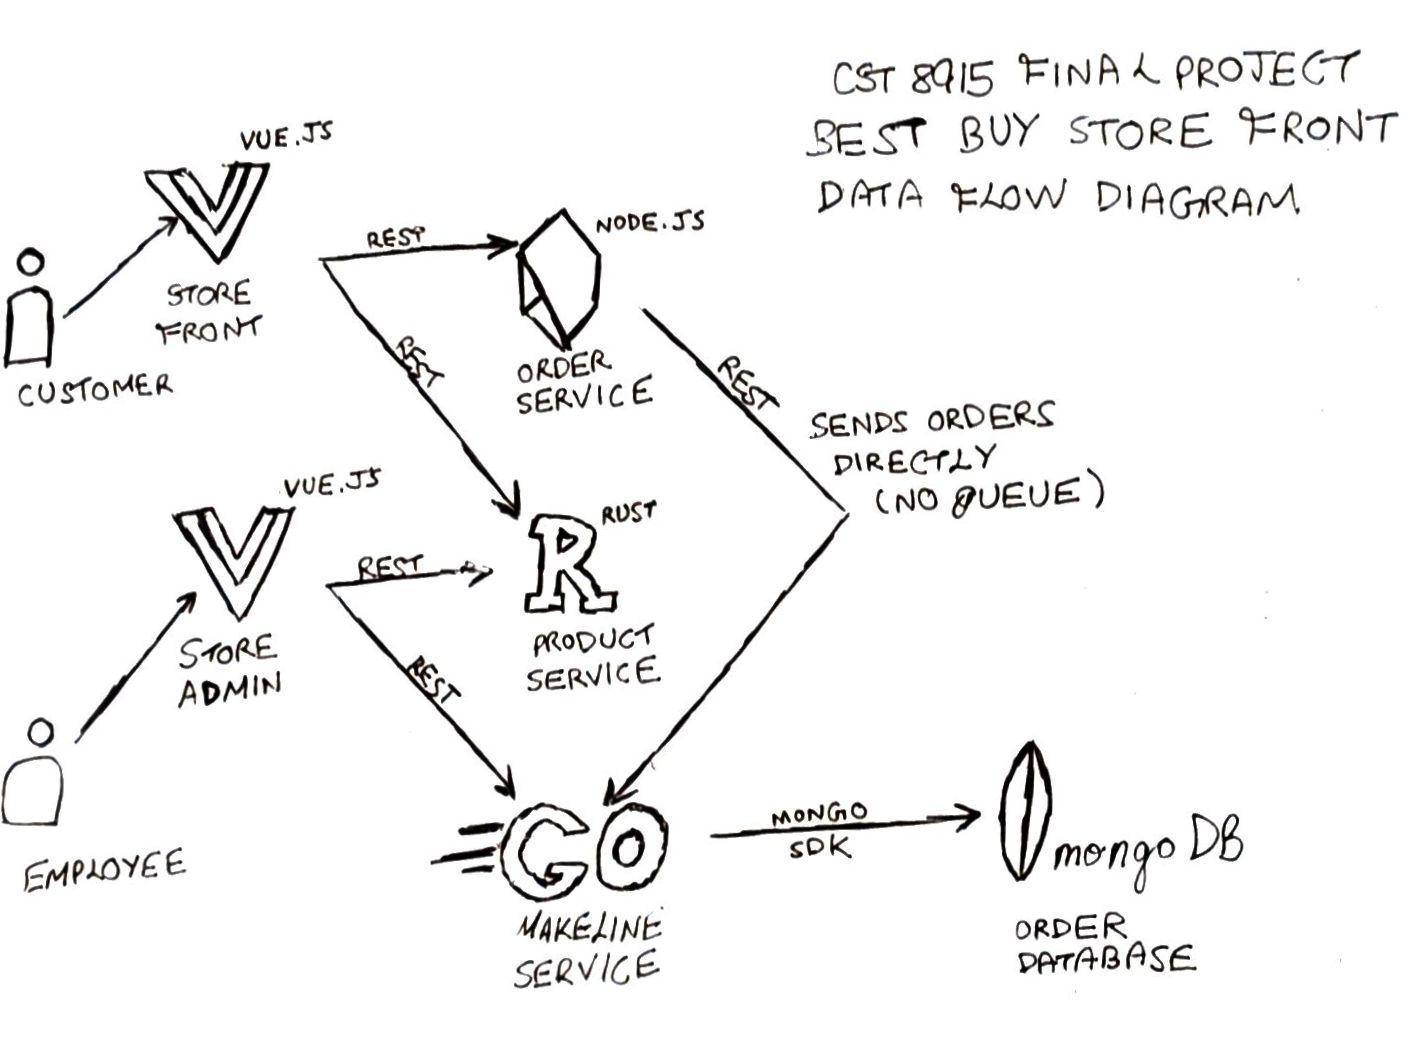
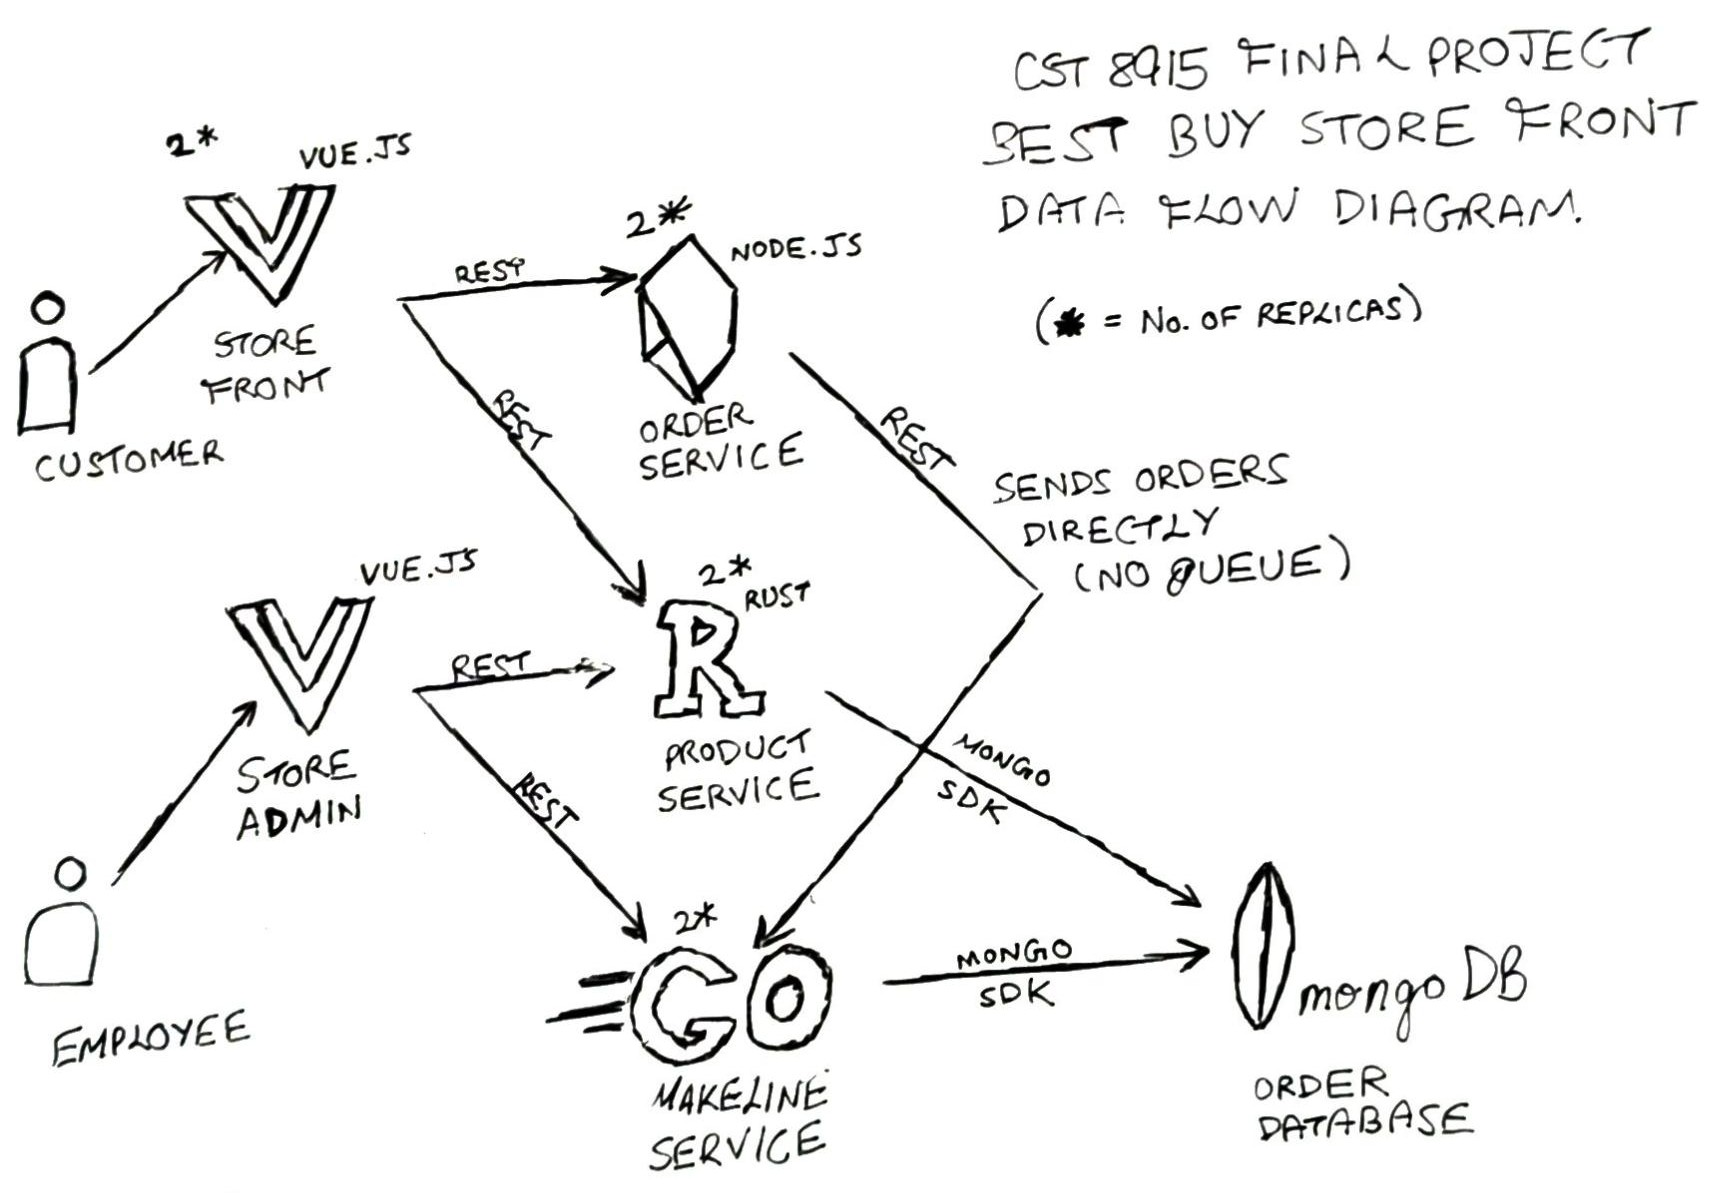
increasing replicas for final demo, updated architecture diagram

diff --git a/README.md b/README.md
@@ -1,9 +1,3 @@
-<!-- README.md:
-Updated Architecture Diagram (Draw.io or other tool).
-Brief application explanation.
-Deployment instructions.
-Links Table: Repository links and Docker Hub image links for all services. -->
-
 # CST8915 Final Project: Best Buy on Kubernetes
 
 **Student Name**: Anoop Sidhu
@@ -25,12 +19,13 @@ Links Table: Repository links and Docker Hub image links for all services. -->
 ---
 ## Application Explanation
 
-- Using Kubernetes PersistentVolumeClaims to add persistence to Mongo.
-- Volume mounted on `/data/db`
-- Increased mongodb replicas to 3 for increased durability.
-- Added storage block, which persists even if pod is deleted.
-- Verified by querying for the same `ObjectId` between deployments.
-- Used same pattern on RabbitMQ, persisting `/var/lib/rabbitmq`, unfortunately could not achieve persistence.
+- The application consists of 5 microservices and a database
+- Store-Front: Customer-facing web app where users browse products, place orders, and track order status.
+- Store-Admin: Employee-facing web app used to manage catalog content, pricing, and internal order operations.
+- Order-Service: Backend API responsible for creating orders, validating order data, and coordinating order lifecycle events.
+- Product-Service: Backend API that exposes product catalog data and supports product create/read/update operations.
+- Makeline-Service: Background worker that consumes order events and performs asynchronous processing in the fulfillment pipeline.
+- Database: MongoDB (Stateful) used as persistent storage for product and order data across the microservices.
 
 ---
 ## Deploy to Azure Kubernetes Service (AKS)
